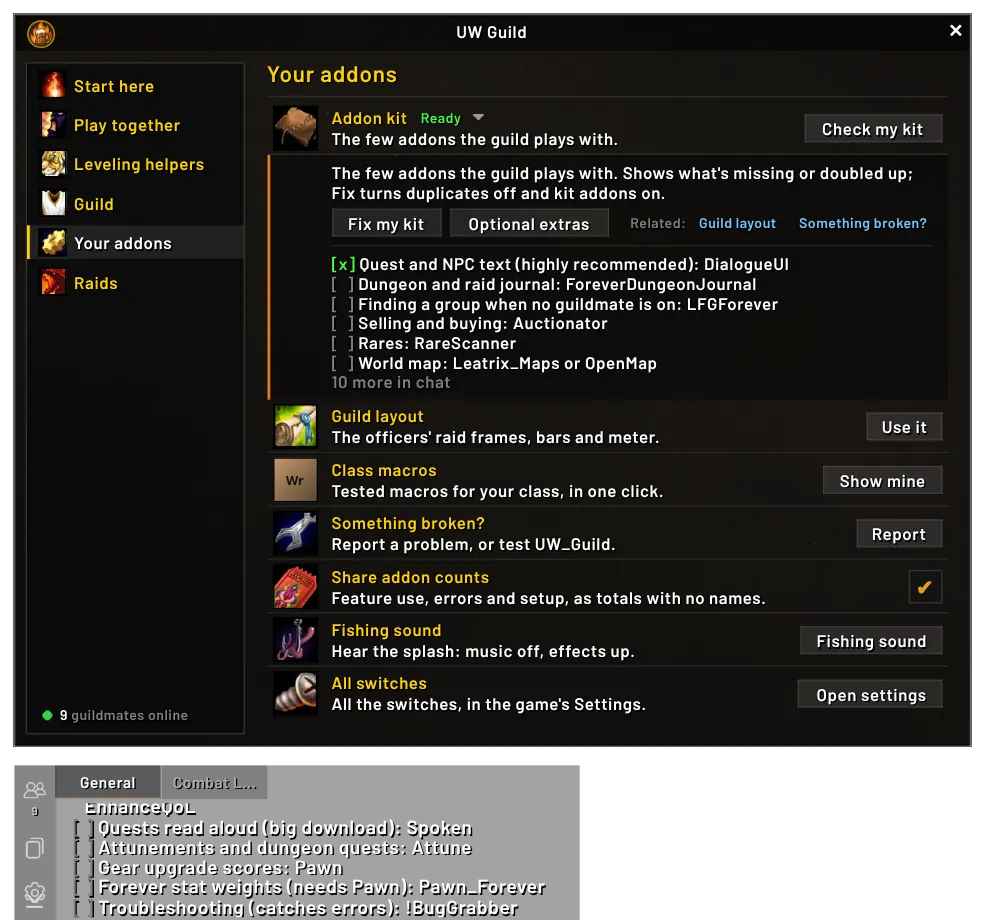
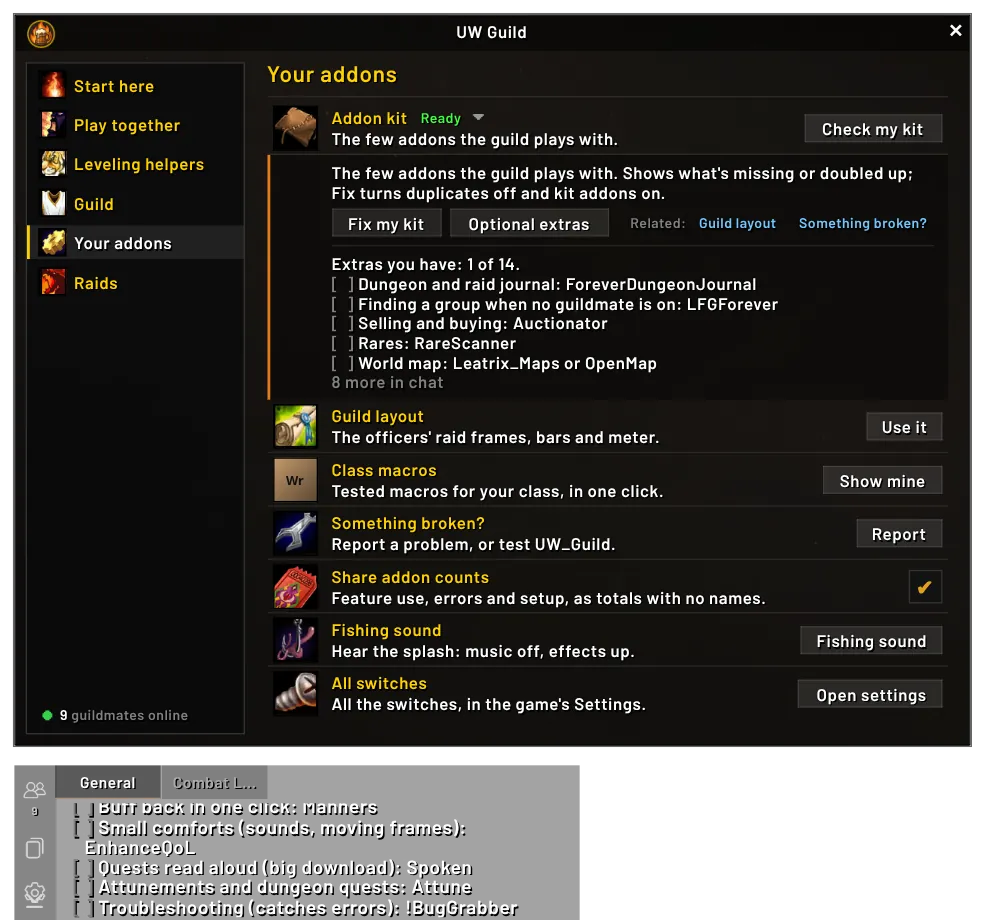
Site for the running build

Changed region(s): [[0.061, 0.8522, 0.5488, 0.9739], [0.3354, 0.2739, 0.7927, 0.3043], [0.3354, 0.3957, 0.4573, 0.4261]]

diff --git a/addon.html b/addon.html
@@ -189,7 +189,7 @@
       <label class="sim-hot sim-h19" for="sim-b_addons_layout" aria-hidden="true"></label>
       <label class="sim-hot sim-h25" for="sim-t_addons_share" aria-hidden="true"></label>
       <p class="sr">
-        UW Guild · Your addons · Start here · Addon kit · Ready · Play together · Check my kit · The few addons the guild plays with. · Leveling helpers · Kit OK (v2026.11.22.1449-43b9965). No error catcher: install BugSack (it brings BugGrabber) so /uw kit can count errors. Whole kit: /uw kit list. Optional extras by goal: /uw kit extras. Something broken? /uw kit report · Guild · Raids · Guild layout · Use it · The officers&#x27; raid frames, bars and meter. · Class macros · Show mine · Tested macros for your class, in one click. · Something broken? · Report · Report a problem, or test UW_Guild. · Share addon counts · Feature use, errors and setup, as totals with no names. · Fishing sound · Hear the splash: music off, effects up. · All switches · Open settings · All the switches, in the game&#x27;s Settings. · 9 guildmates online · UW Kit OK (v2026.11.22.1449-43b9965). · No error catcher: install BugSack (it brings BugGrabber) so /uw kit can count errors. · Whole kit: /uw kit list. Optional extras by goal: /uw kit extras. Something broken? /uw kit report
+        UW Guild · Your addons · Start here · Addon kit · Ready · Play together · Check my kit · The few addons the guild plays with. · Leveling helpers · Kit OK (v2026.11.22.1622-fcaae04). No error catcher: install BugSack (it brings BugGrabber) so /uw kit can count errors. Whole kit: /uw kit list. Optional extras by goal: /uw kit extras. Something broken? /uw kit report · Guild · Raids · Guild layout · Use it · The officers&#x27; raid frames, bars and meter. · Class macros · Show mine · Tested macros for your class, in one click. · Something broken? · Report · Report a problem, or test UW_Guild. · Share addon counts · Feature use, errors and setup, as totals with no names. · Fishing sound · Hear the splash: music off, effects up. · All switches · Open settings · All the switches, in the game&#x27;s Settings. · 9 guildmates online · UW Kit OK (v2026.11.22.1622-fcaae04). · No error catcher: install BugSack (it brings BugGrabber) so /uw kit can count errors. · Whole kit: /uw kit list. Optional extras by goal: /uw kit extras. Something broken? /uw kit report
       </p>
     </div>
     <div class="sim-st sim-st-b_addons_layout">
@@ -227,7 +227,7 @@
       <img src="img/sim/b_addons_report.webp" width="984" height="923" alt="" decoding="async" loading="lazy">
       <label class="sim-hot sim-h39" for="sim-p_addons" aria-hidden="true"></label>
       <p class="sr">
-        UW addon kit report · Press Ctrl+C, then paste it into /ask-officers in Discord. · UW kit report v2026.11.22.1449-43b9965, client ? | missing: none | raid: DBM-Core or BigWigs | duplicates: none | kept as theirs: none | errors: no BugGrabber | blocked: none | no Forever file: none | needs another addon: none | UW_Guild errors: none | client lacks: nothing · UW Report ready: press Ctrl+C, then paste it into /ask-officers in Discord. Not on Discord? Whisper an officer: /uw audit shows them your kit.
+        UW addon kit report · Press Ctrl+C, then paste it into /ask-officers in Discord. · UW kit report v2026.11.22.1622-fcaae04, client ? | missing: none | raid: DBM-Core or BigWigs | duplicates: none | kept as theirs: none | errors: no BugGrabber | blocked: none | no Forever file: none | needs another addon: none | UW_Guild errors: none | client lacks: nothing · UW Report ready: press Ctrl+C, then paste it into /ask-officers in Discord. Not on Discord? Whisper an officer: /uw audit shows them your kit.
       </p>
     </div>
     <div class="sim-st sim-st-b_guild_contact">
@@ -705,7 +705,7 @@
       <label class="sim-hot sim-h149" for="sim-b_addons_layout" aria-hidden="true"></label>
       <label class="sim-hot sim-h155" for="sim-t_addons_share" aria-hidden="true"></label>
       <p class="sr">
-        UW Guild · Your addons · Start here · Addon kit · Ready · Play together · Check my kit · The few addons the guild plays with. · Leveling helpers · The few addons the guild plays with. Shows what&#x27;s missing or doubled up; Fix turns duplicates off and kit addons on. · Guild · Fix my kit · Optional extras · Related: · Guild layout · Something broken? · Kit OK (v2026.11.22.1449-43b9965). No error catcher: install BugSack (it brings BugGrabber) so /uw kit can count errors. Whole kit: /uw kit list. Optional extras by goal: /uw kit extras. Something broken? /uw kit report · Raids · Use it · The officers&#x27; raid frames, bars and meter. · Class macros · Show mine · Tested macros for your class, in one click. · Report · Report a problem, or test UW_Guild. · Share addon counts · Feature use, errors and setup, as totals with no names. · Fishing sound · Hear the splash: music off, effects up. · All switches · Open settings · All the switches, in the game&#x27;s Settings. · 9 guildmates online
+        UW Guild · Your addons · Start here · Addon kit · Ready · Play together · Check my kit · The few addons the guild plays with. · Leveling helpers · The few addons the guild plays with. Shows what&#x27;s missing or doubled up; Fix turns duplicates off and kit addons on. · Guild · Fix my kit · Optional extras · Related: · Guild layout · Something broken? · Kit OK (v2026.11.22.1622-fcaae04). No error catcher: install BugSack (it brings BugGrabber) so /uw kit can count errors. Whole kit: /uw kit list. Optional extras by goal: /uw kit extras. Something broken? /uw kit report · Raids · Use it · The officers&#x27; raid frames, bars and meter. · Class macros · Show mine · Tested macros for your class, in one click. · Report · Report a problem, or test UW_Guild. · Share addon counts · Feature use, errors and setup, as totals with no names. · Fishing sound · Hear the splash: music off, effects up. · All switches · Open settings · All the switches, in the game&#x27;s Settings. · 9 guildmates online
       </p>
     </div>
     <div class="sim-st sim-st-o_addons_layout">
@@ -2279,7 +2279,7 @@
       <label class="sim-hot sim-h368" for="sim-b_addons_layout" aria-hidden="true"></label>
       <label class="sim-hot sim-h374" for="sim-t_addons_share" aria-hidden="true"></label>
       <p class="sr">
-        UW Guild · Your addons · Start here · Addon kit · Ready · Play together · Check my kit · The few addons the guild plays with. · Leveling helpers · The few addons the guild plays with. Shows what&#x27;s missing or doubled up; Fix turns duplicates off and kit addons on. · Guild · Fix my kit · Optional extras · Related: · Guild layout · Something broken? · [x] Quest and NPC text (highly recommended): DialogueUI [ ] Dungeon and raid journal: ForeverDungeonJournal [ ] Finding a group when no guildmate is on: LFGForever [ ] Selling and buying: Auctionator [ ] Rares: RareScanner [ ] World map: Leatrix_Maps or OpenMap 10 more in chat · Raids · Use it · The officers&#x27; raid frames, bars and meter. · Class macros · Show mine · Tested macros for your class, in one click. · Report · Report a problem, or test UW_Guild. · Share addon counts · Feature use, errors and setup, as totals with no names. · Fishing sound · Hear the splash: music off, effects up. · All switches · Open settings · All the switches, in the game&#x27;s Settings. · 9 guildmates online · UW [x] Quest and NPC text (highly recommended): DialogueUI · [ ] Dungeon and raid journal: ForeverDungeonJournal · [ ] Finding a group when no guildmate is on: LFGForever · [ ] Selling and buying: Auctionator · [ ] Rares: RareScanner · [ ] World map: Leatrix_Maps or OpenMap · [ ] Loot, ore and herb sparkles: ForeverLootSparkles · [ ] Herb, ore and fish map: GatherLite · [ ] Profession leveling: CraftersJournal or ForeverWowCraftScanner · [ ] Buff back in one click: Manners · [ ] Small comforts (sounds, moving frames): EnhanceQoL · [ ] Quests read aloud (big download): Spoken · [ ] Attunements and dungeon quests: Attune · [ ] Gear upgrade scores: Pawn · [ ] Forever stat weights (needs Pawn): Pawn_Forever · [ ] Troubleshooting (catches errors): !BugGrabber
+        UW Guild · Your addons · Start here · Addon kit · Ready · Play together · Check my kit · The few addons the guild plays with. · Leveling helpers · The few addons the guild plays with. Shows what&#x27;s missing or doubled up; Fix turns duplicates off and kit addons on. · Guild · Fix my kit · Optional extras · Related: · Guild layout · Something broken? · Extras you have: 1 of 14. [ ] Dungeon and raid journal: ForeverDungeonJournal [ ] Finding a group when no guildmate is on: LFGForever [ ] Selling and buying: Auctionator [ ] Rares: RareScanner [ ] World map: Leatrix_Maps or OpenMap 8 more in chat · Raids · Use it · The officers&#x27; raid frames, bars and meter. · Class macros · Show mine · Tested macros for your class, in one click. · Report · Report a problem, or test UW_Guild. · Share addon counts · Feature use, errors and setup, as totals with no names. · Fishing sound · Hear the splash: music off, effects up. · All switches · Open settings · All the switches, in the game&#x27;s Settings. · 9 guildmates online · UW Extras you have: 1 of 14. · [ ] Dungeon and raid journal: ForeverDungeonJournal · [ ] Finding a group when no guildmate is on: LFGForever · [ ] Selling and buying: Auctionator · [ ] Rares: RareScanner · [ ] World map: Leatrix_Maps or OpenMap · [ ] Loot, ore and herb sparkles: ForeverLootSparkles · [ ] Herb, ore and fish map: GatherLite · [ ] Profession leveling: CraftersJournal or ForeverWowCraftScanner · [ ] Buff back in one click: Manners · [ ] Small comforts (sounds, moving frames): EnhanceQoL · [ ] Quests read aloud (big download): Spoken · [ ] Attunements and dungeon quests: Attune · [ ] Troubleshooting (catches errors): !BugGrabber
       </p>
     </div>
     <div class="sim-st sim-st-u_addons_layout_DialogueUI_look">
@@ -2329,7 +2329,7 @@
       <label class="sim-hot sim-h8" for="sim-b_addons_layout" aria-hidden="true"></label>
       <label class="sim-hot sim-h363" for="sim-t_addons_share" aria-hidden="true"></label>
       <p class="sr">
-        UW Guild · Your addons · Start here · Addon kit · Ready · Play together · Check my kit · The few addons the guild plays with. · Leveling helpers · Guild layout · Use it · The officers&#x27; raid frames, bars and meter. · Guild · Class macros · Show mine · Tested macros for your class, in one click. · Something broken? · Raids · Report · Report a problem, or test UW_Guild. · A short report for the officers, a self-test of UW_Guild, and your version against the newest. · Self-test · Version · Related: · Contact the Guild Master · Selftest v2026.11.22.1449-43b9965: 10 ok, 1 warn, 0 fail. warn Quest chains: Questie&#x27;s quest data isn&#x27;t readable: no chain tags · Share addon counts · Feature use, errors and setup, as totals with no names. · Fishing sound · Hear the splash: music off, effects up. · All switches · Open settings · All the switches, in the game&#x27;s Settings. · 9 guildmates online · UW Selftest v2026.11.22.1449-43b9965: 10 ok, 1 warn, 0 fail. · warn Quest chains: Questie&#x27;s quest data isn&#x27;t readable: no chain tags
+        UW Guild · Your addons · Start here · Addon kit · Ready · Play together · Check my kit · The few addons the guild plays with. · Leveling helpers · Guild layout · Use it · The officers&#x27; raid frames, bars and meter. · Guild · Class macros · Show mine · Tested macros for your class, in one click. · Something broken? · Raids · Report · Report a problem, or test UW_Guild. · A short report for the officers, a self-test of UW_Guild, and your version against the newest. · Self-test · Version · Related: · Contact the Guild Master · Selftest v2026.11.22.1622-fcaae04: 10 ok, 1 warn, 0 fail. warn Quest chains: Questie&#x27;s quest data isn&#x27;t readable: no chain tags · Share addon counts · Feature use, errors and setup, as totals with no names. · Fishing sound · Hear the splash: music off, effects up. · All switches · Open settings · All the switches, in the game&#x27;s Settings. · 9 guildmates online · UW Selftest v2026.11.22.1622-fcaae04: 10 ok, 1 warn, 0 fail. · warn Quest chains: Questie&#x27;s quest data isn&#x27;t readable: no chain tags
       </p>
     </div>
     <div class="sim-st sim-st-u_addons_report_Version">
@@ -2354,7 +2354,7 @@
       <label class="sim-hot sim-h8" for="sim-b_addons_layout" aria-hidden="true"></label>
       <label class="sim-hot sim-h294" for="sim-t_addons_share" aria-hidden="true"></label>
       <p class="sr">
-        UW Guild · Your addons · Start here · Addon kit · Ready · Play together · Check my kit · The few addons the guild plays with. · Leveling helpers · Guild layout · Use it · The officers&#x27; raid frames, bars and meter. · Guild · Class macros · Show mine · Tested macros for your class, in one click. · Something broken? · Raids · Report · Report a problem, or test UW_Guild. · A short report for the officers, a self-test of UW_Guild, and your version against the newest. · Self-test · Version · Related: · Contact the Guild Master · UW_Guild 2026.11.22.1449-43b9965. The newest is on unbotheredwarlords.github.io/addon: if its version matches this one, you&#x27;re up to date. · Share addon counts · Feature use, errors and setup, as totals with no names. · Fishing sound · Hear the splash: music off, effects up. · All switches · Open settings · All the switches, in the game&#x27;s Settings. · 9 guildmates online · UW UW_Guild 2026.11.22.1449-43b9965. The newest is on unbotheredwarlords.github.io/addon: if its version matches this one, you&#x27;re up to date.
+        UW Guild · Your addons · Start here · Addon kit · Ready · Play together · Check my kit · The few addons the guild plays with. · Leveling helpers · Guild layout · Use it · The officers&#x27; raid frames, bars and meter. · Guild · Class macros · Show mine · Tested macros for your class, in one click. · Something broken? · Raids · Report · Report a problem, or test UW_Guild. · A short report for the officers, a self-test of UW_Guild, and your version against the newest. · Self-test · Version · Related: · Contact the Guild Master · UW_Guild 2026.11.22.1622-fcaae04. The newest is on unbotheredwarlords.github.io/addon: if its version matches this one, you&#x27;re up to date. · Share addon counts · Feature use, errors and setup, as totals with no names. · Fishing sound · Hear the splash: music off, effects up. · All switches · Open settings · All the switches, in the game&#x27;s Settings. · 9 guildmates online · UW UW_Guild 2026.11.22.1622-fcaae04. The newest is on unbotheredwarlords.github.io/addon: if its version matches this one, you&#x27;re up to date.
       </p>
     </div>
     <div class="sim-st sim-st-u_play_meet_Clear_it">
@@ -2982,7 +2982,7 @@
       <details id="errors"><summary>Red error text, or something looks wrong</summary><p>Type <code class="nowrap">/uw selftest</code>. It checks the addon and tells you what's off. Still stuck? Whisper any officer in game.</p></details>
       <details id="remove"><summary>Stop automatic updates, or remove the addon</summary><p>Start menu, <strong>UW Guild addon</strong>, <strong>Stop automatic updates</strong>. The addon stays. Or in a command prompt: <code>schtasks /Delete /TN "UW_Guild updater" /F</code>. On Linux: app menu, <strong>Stop UW Guild addon automatic updates</strong>. To remove the addon too, delete the <strong>UW_Guild</strong> folder in AddOns.</p></details>
       <details id="start-fresh"><summary>Start fresh</summary><p>Close WoW, open the <span class="nowrap">_forever_ › WTF</span> folder and search it for <strong>UW_Guild.lua</strong>. Delete every one it finds. UW Guild then starts like a first install on this PC. Your guild rank and Discord link aren't in that file, so they stay. Officers: your copy may hold guild records, so ask in #officer-chat first.</p></details>
-      <details id="verify"><summary>Check the download is ours (optional)</summary><p>The zip's SHA-256 is <code class="hash">7e9069821acca0f1f2a25a2d299f5122253e8787a1f7e075cb0508765e6ec85c</code>. On Windows, in PowerShell: <code>Get-FileHash UW_Guild.zip</code>. On a Mac, in Terminal: <code>shasum -a 256 UW_Guild.zip</code>. On Linux: <code>sha256sum UW_Guild.zip</code>. The two should match. This page's build is 5b3d074 (<a href="version.json">version.json</a>).</p></details>
+      <details id="verify"><summary>Check the download is ours (optional)</summary><p>The zip's SHA-256 is <code class="hash">7e9069821acca0f1f2a25a2d299f5122253e8787a1f7e075cb0508765e6ec85c</code>. On Windows, in PowerShell: <code>Get-FileHash UW_Guild.zip</code>. On a Mac, in Terminal: <code>shasum -a 256 UW_Guild.zip</code>. On Linux: <code>sha256sum UW_Guild.zip</code>. The two should match. This page's build is 6691f09 (<a href="version.json">version.json</a>).</p></details>
     </div>
   </section>
 </main>
